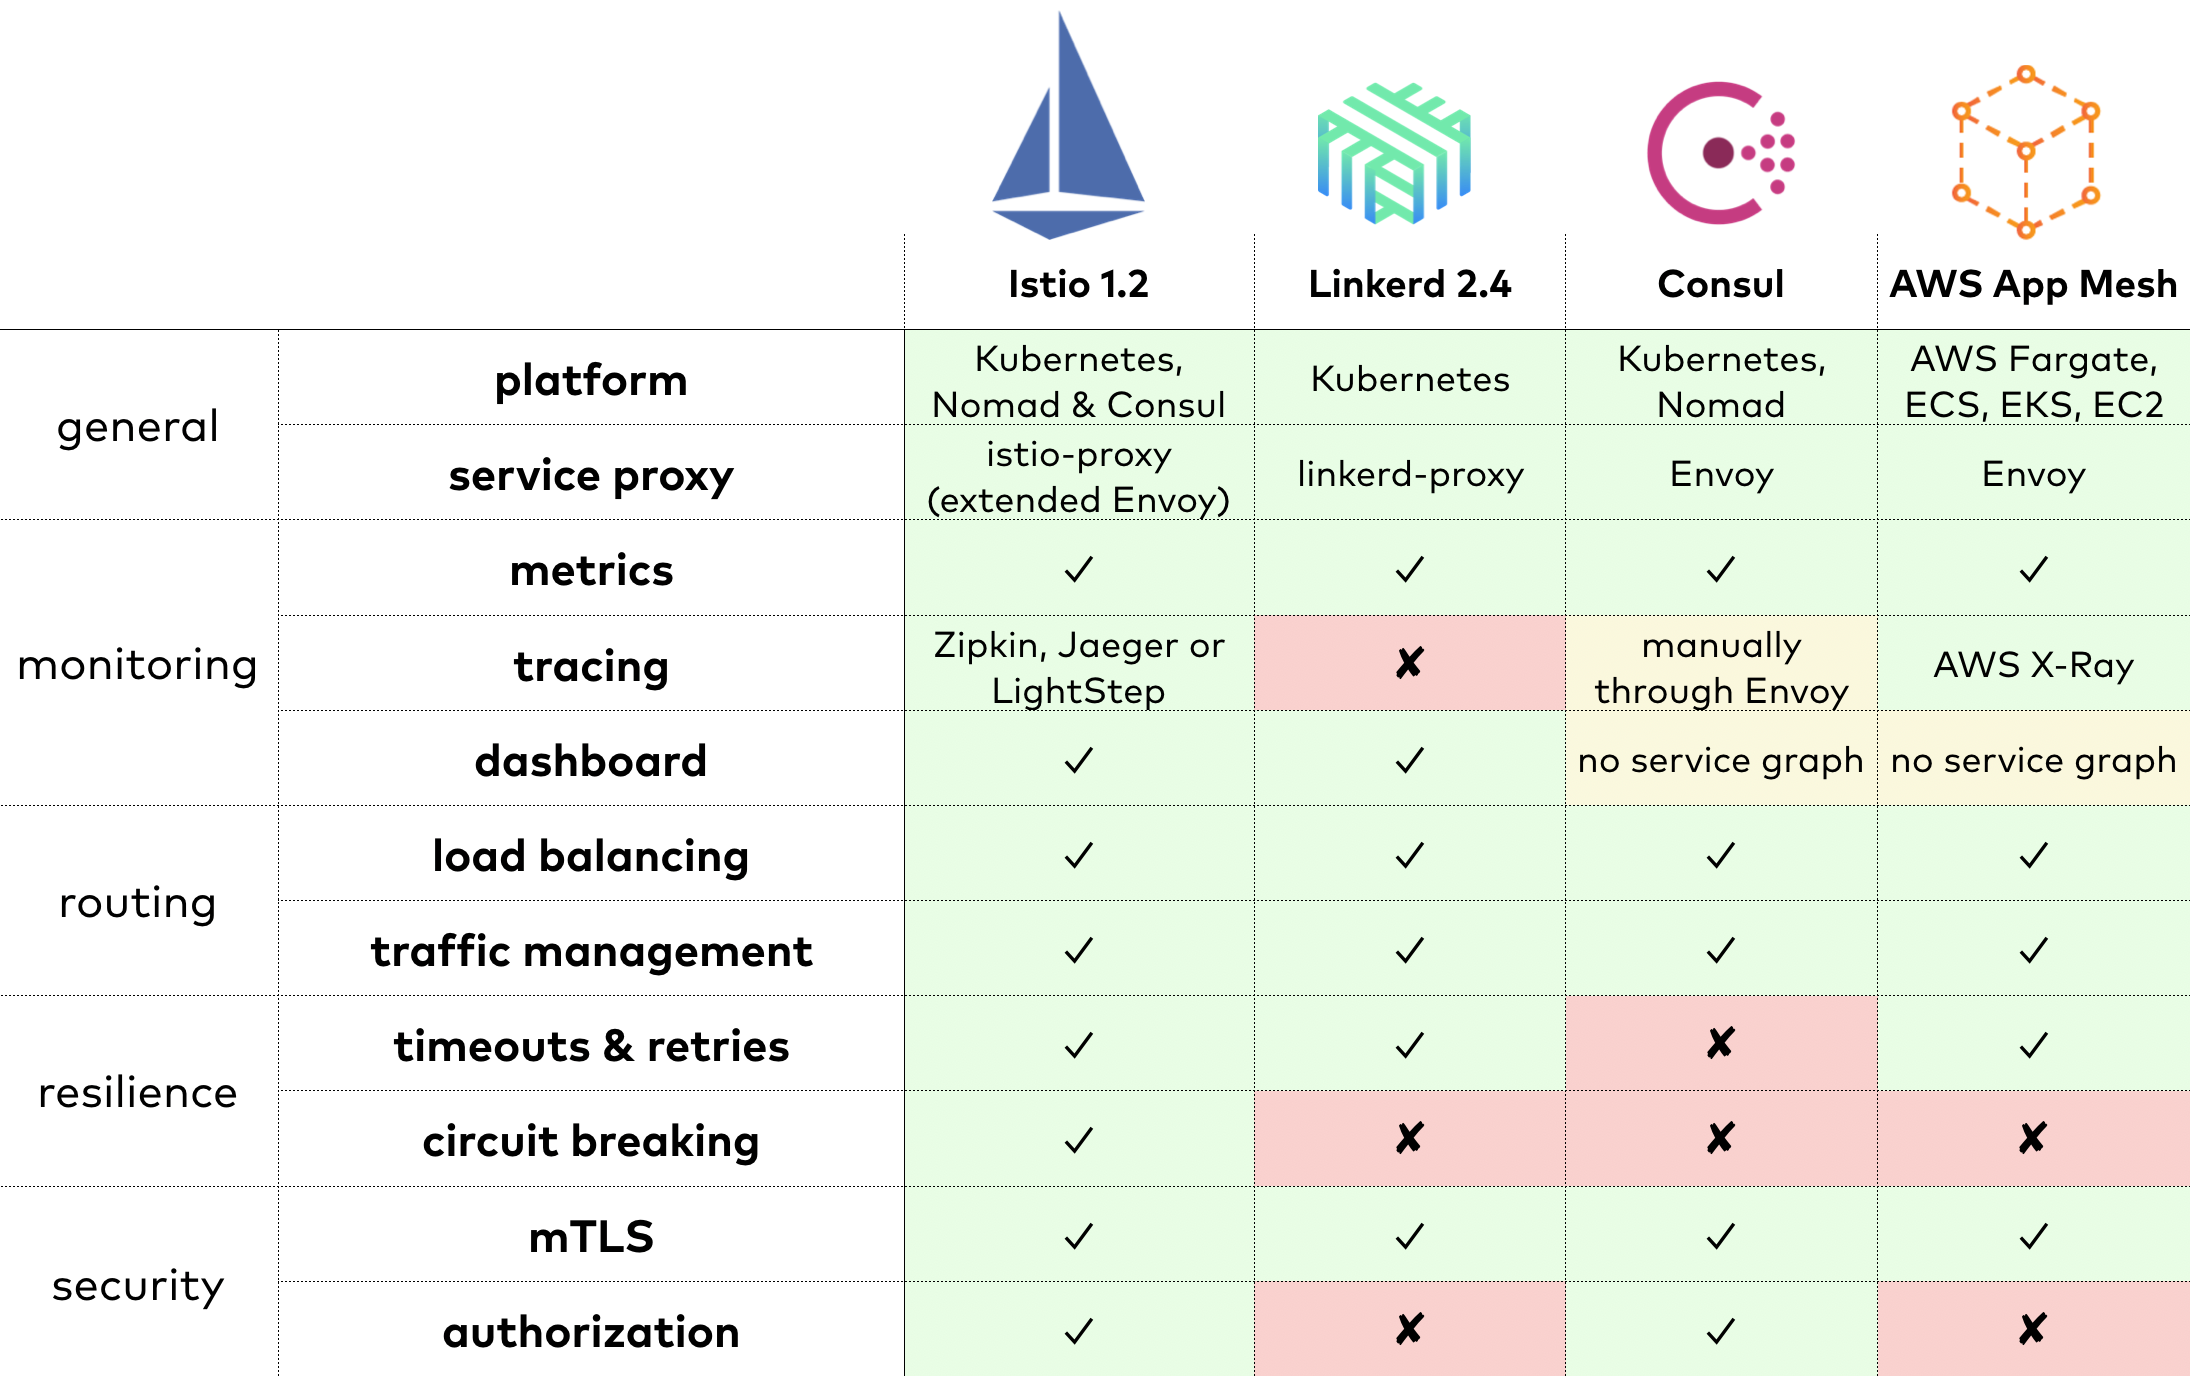
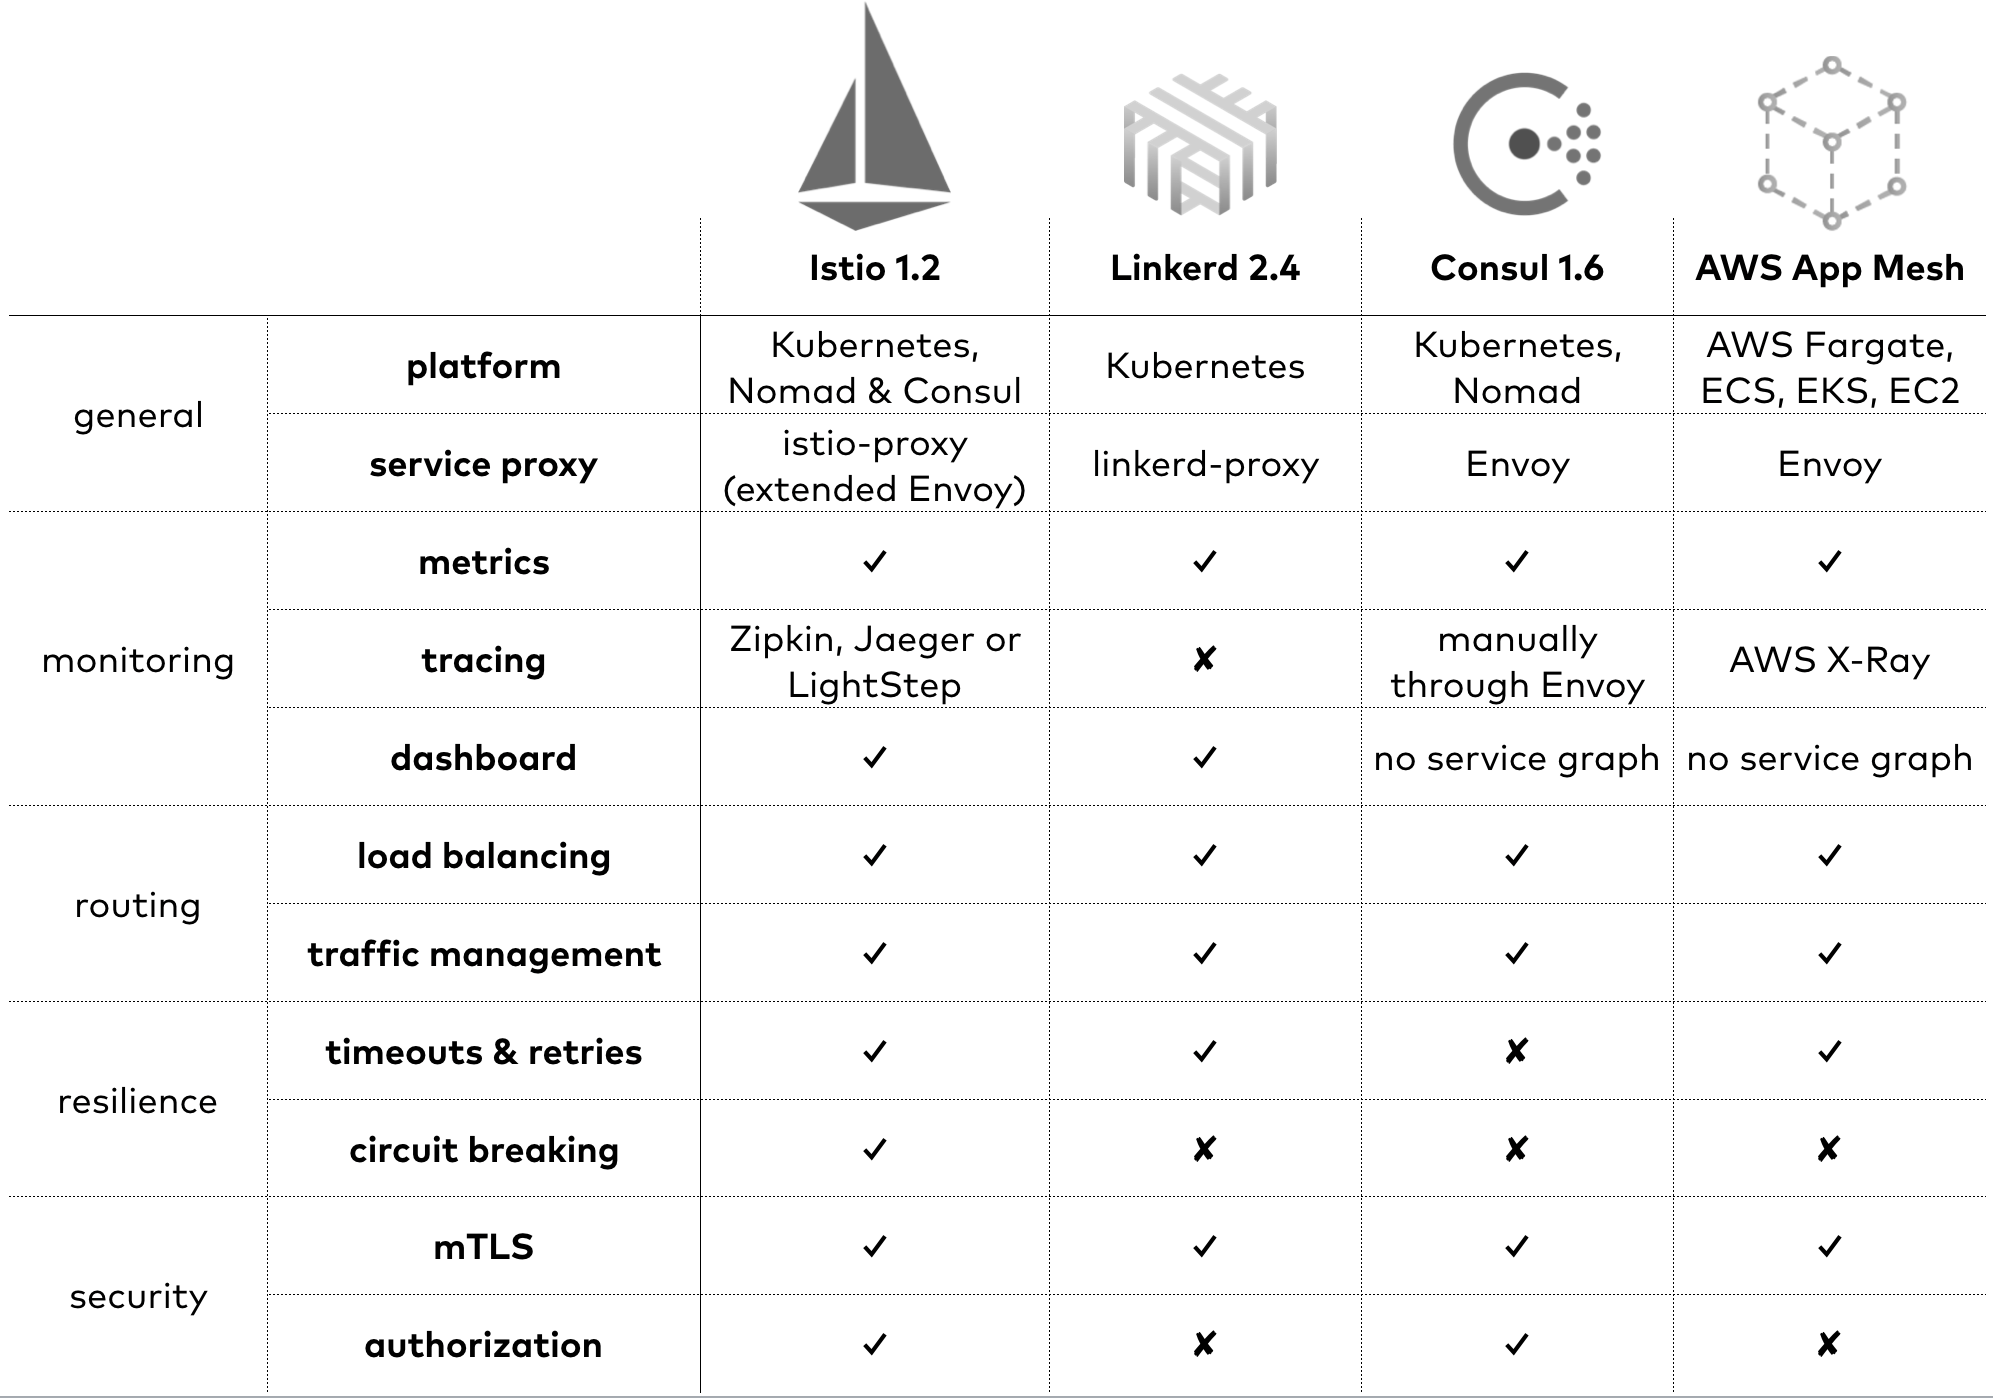
resolved Todos in Other Service Meshes chpt

diff --git a/manuscript/04-Other-Service-Mesh.md b/manuscript/04-Other-Service-Mesh.md
@@ -4,12 +4,12 @@ While Istio is the most popular service mesh, the market is quite diverse and wo
 
 ## Linkerd 2 {#section-other-linkerd2}
 
-Linkerd 2 is the successor of Linkerd.
-Although Linkerd had been adopted in large production systems, the software was too complex to configure and not performing well. These limitations induced Buoyant to develop a completely new service mesh. The result - formerly Conduit, today called Linkerd 2 - was presented in December 2017 as an open source project, written in Go and Rust. Linkerd 2 is an incubation project of the CNCF (Cloud Native Computing Foundation) and currently the only service mesh in the CNCF portfolio.
+[Linkerd 2](https://linkerd.io) is the successor of Linkerd.
+Although Linkerd had been adopted in large production systems, the software was too complex to configure and not performing well. These limitations induced Buoyant to develop a completely new service mesh. The result -- formerly Conduit, today called Linkerd 2 -- was presented in December 2017 as an open source project, written in Go and Rust. Linkerd 2 is an incubation project of the [CNCF](https://www.cncf.io) (Cloud Native Computing Foundation) and currently the only service mesh in the CNCF portfolio.
 
-Although Kubernetes is the most common platform to be used with Istio, it is designed to work with any environment. The complexity of Istio is to some extent caused by this platform neutral design. While the first version of Linkerd was designed alike, Linkerd 2 benefits from its commitment to Kubernetes. Linkerd implements most service mesh features such as monitoring, routing, retries, timeouts, and mTLS. Circuit breaking, tracing, and autorization are missing. Unlike other service mesh implementations, which use the third-party service proxy Envoy, Linkerd includes its own implementation of a service proxy (linkerd-proxy).
+Although Kubernetes is the most common platform to be used with Istio, it is designed to work with any environment. The complexity of Istio is to some extent caused by this platform neutral design. While the first version of Linkerd was designed alike, Linkerd 2 benefits from its commitment to Kubernetes. Linkerd implements most service mesh features such as monitoring, routing, retries, timeouts, and mTLS. Circuit breaking, tracing, and autorization are missing. While most service mesh implementations use the Envoy service proxy, Linkerd includes its own service proxy implementation (linkerd-proxy).
 
-Rewriting Linkerd for usability and performance while integrating with Kubernetes seems to have worked out. The API of Linkerd 2 is much cleaner and more consistent than Istio's. It has only one CRD (Custom Resource Definition) that has to be used in a Kubernetes configuration. Istio has 23 CRDs. Linkerd 2 also provides a carefully considered dashboard, shown in [figure 5.1](#fig-other-linkerd-dashboard). Kubernetes users should seriously consider it since it includes most service mesh features in a production ready stage, has a small resource and performance footprint, and provides an excellent developer experience.
+Rewriting Linkerd for usability and performance while integrating with Kubernetes seems to have worked out. The API of Linkerd 2 is much cleaner and more consistent than Istio's. It introduces only one Kubernetes CRD and provides a carefully considered dashboard, shown in [figure 5.1](#fig-other-linkerd-dashboard). Kubernetes users should seriously consider it since it includes most service mesh features in a production ready stage, has a small resource and performance footprint, and provides an excellent developer experience.
 
 <!--TODO: refined Timeouts and retrys-->
 
@@ -23,7 +23,7 @@ Rewriting Linkerd for usability and performance while integrating with Kubernete
 
 ## Consul {#section-other-consul}
 
-Consul, originally a solution for service discovery, recently added service mesh use cases. Consul supports service discovery, authorization, mTLS, monitoring through metrics, and routing capabilities. The latter were added by integrating with the Envoy proxy that Istio and other service meshes are also using. Resilience features like circuit breaking, retry, and timeout are yet to be developed. Like Istio, Consul does not depend on any specific orchestration platform.
+[Consul](https://www.consul.io), originally a solution for service discovery, recently added service mesh use cases. Consul supports service discovery, authorization, mTLS, monitoring through metrics, and routing capabilities. The latter were added by integrating with the Envoy proxy that Istio and other service meshes are also using. Resilience features like circuit breaking, retry, and timeout are yet to be developed. Like Istio, Consul does not depend on any specific orchestration platform but is compatible with Kubernetes and Nomad.
 
 <!--TODO: Screenshot, details-->
 
@@ -31,32 +31,23 @@ Consul, originally a solution for service discovery, recently added service mesh
 
 <!--TODO: API-->
 
-<!--TODO: Kubernetes-Support-->
-
 ## AWS App Mesh {#section-other-aws-app-mesh}
 
-As the name suggests, AWS App Mesh is a service mesh developed for AWS. It was first introduced in November 2018. Like Istio and Consul, AWS App Mesh uses a pre-configured but customizable Envoy as service proxy and adds its own control plane. It is integrated with other AWS tools like CloudWatch for metrics and X-Ray for traces. AWS App Mesh already supports essential service mesh features like monitoring, routing and mTLS. AWS users can activate App Mesh in Fargate, EC2, EKS, and EC2 and add configuration through JSON. In Kubernetes environments, configuration can be applied through CRDs and applied by the [AWS App Mesh Controller](https://github.com/aws/aws-app-mesh-controller-for-k8s).
+As the name suggests, [AWS App Mesh](http://aws.amazon.com/app-mesh/) is a service mesh developed for AWS. It was first introduced in November 2018. Like Istio and Consul, AWS App Mesh uses a pre-configured but customizable Envoy as service proxy and adds its own control plane. It is integrated with other AWS tools like CloudWatch for metrics and X-Ray for traces. AWS App Mesh already supports essential service mesh features like monitoring, routing and mTLS. AWS users can activate App Mesh in Fargate, EC2, EKS, and EC2 and add configuration through JSON. In Kubernetes environments, configuration can be applied through CRDs and applied by the [AWS App Mesh Controller](https://github.com/aws/aws-app-mesh-controller-for-k8s).
 
 AWS is the most recent service mesh implementation, but since AWS has the biggest market share for cloud computing, AWS App Mesh is expected to stay and grow.  
 
-<!--TODO: Screenshot?-->
-
-<!-- I like the recommendation concerning Linkerd 2 above. Will you provide something similar for App Mesh? -->
-
 ## When to Choose Which? {#section-other-choose}
 
-The features a service mesh provides seem to be useful for the vast majority of microservice applications. When it comes to choosing a specific service mesh implementation, it is hard to resist going with Istio as it is the most popular one. But experience shows that technical decisions are best based on requirements and problems rather than any hype, a projects public attention, or even its number of features.
+The features a service mesh provides are useful for the vast majority of microservice applications. When it comes to choosing a specific service mesh implementation, it is hard to resist going with Istio as it is the most popular one. But experience shows that technical decisions are best based on requirements and problems rather than any hype, a projects public attention, or even its number of features.
 
 As shown in [figure 5.2](#fig-other-service-mesh-comparison) Istio overtook all other service mesh implementations in terms of feature completeness and configurability. But these properties have made Istio an complex component that can be hard to manage in practice. In cases where not all features and their customizability are required, Linkerd, Consul and AWS App Mesh might be a better choice.
 
 {id="fig-other-service-mesh-comparison"}
 
-![Figure 5.2: Features of service mesh implementations](images/other-service-mesh-comparison.png)
+![Figure 5.2: Features of service mesh implementations as of September 2019](images/other-service-mesh-comparison.png)
 
 Another criterion is the platform. If the whole application runs in Kubernetes anyway, users can benefit from the simplicity of Linkerd 2. If Consul or AWS are already used, the corresponding service mesh implementations might cause least friction. If multiple clusters or legacy applications outside of the cluster are involved, Istio provides appropriate concepts and configuration. 
 
-Many microservice applications are dealing with a higher latency compared to monoliths. A service mesh also adds to the latency, which is not completely balanced by improved load balancing strategies. Also, the number of running applications is doubled which has an impact on resource consumption. Fair benchmarks in this space are hard to find because of the different feature sets and configuration. Most results show that, although Istio's performance has improved over time, Linkerd is performing better under high load and uses much less resources.
+Many microservice applications are dealing with a higher latency compared to monoliths. A service mesh also adds to the latency, which is not completely balanced by improved load balancing strategies. Also, the number of running applications is doubled which has an impact on resource consumption. Fair benchmarks in this space are hard to find because of different feature sets and configuration. Most results show that, although Istio's performance has improved over time, Linkerd is performing better under high load and uses much less resources.
 
-<!--TODO: Hinweis aktueller Stand-->
-
-<!--TODO: Versionsnummern Consul -->
